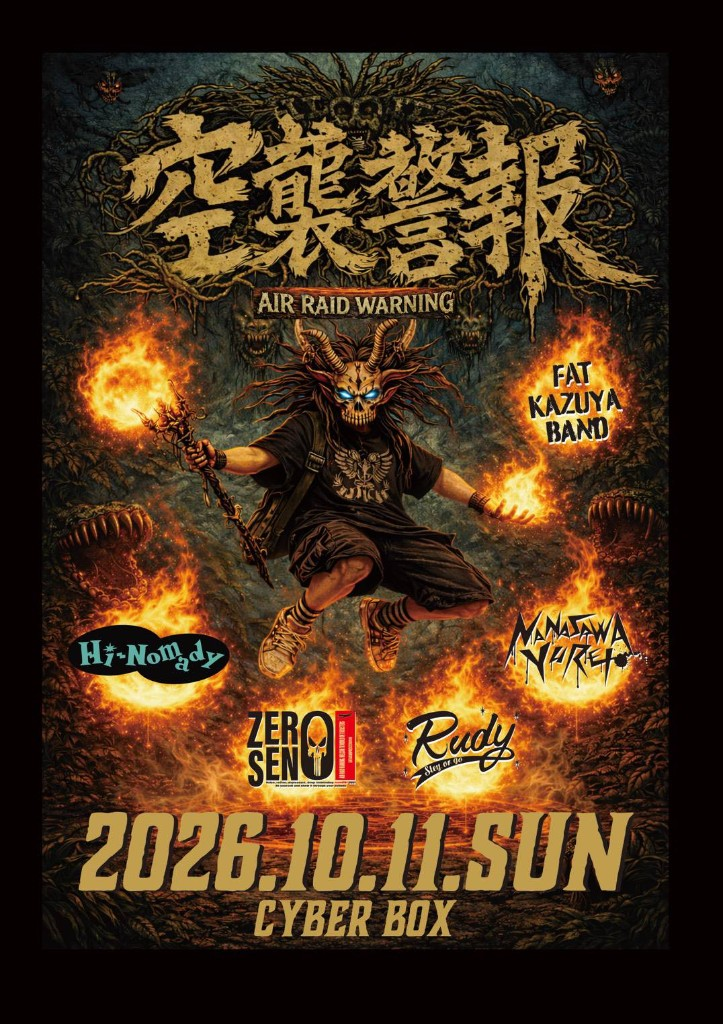
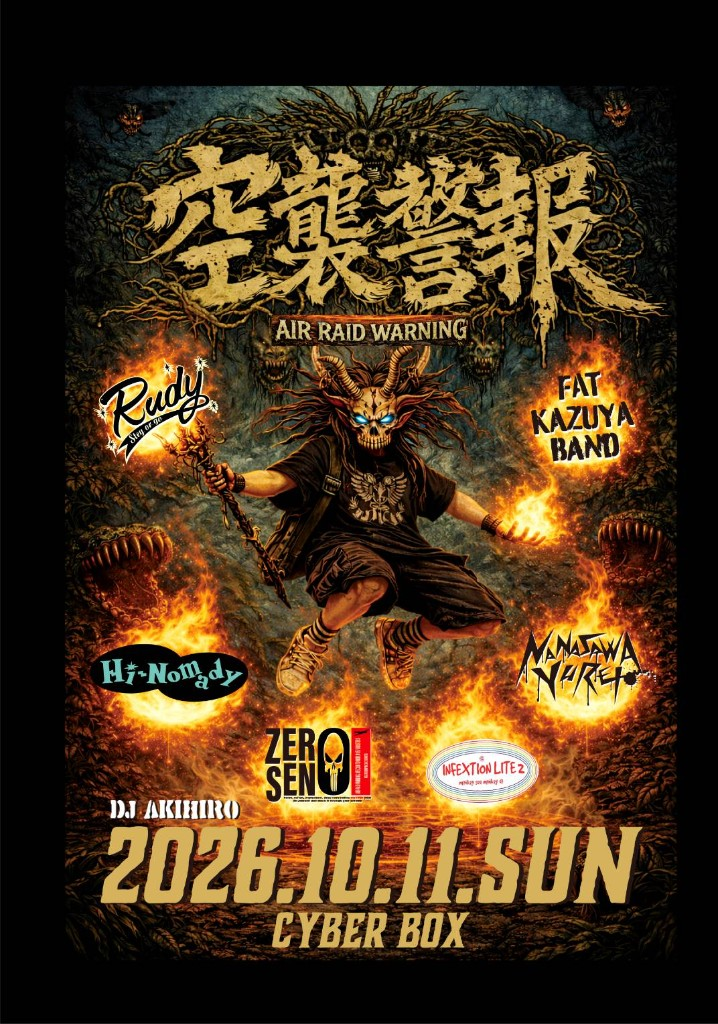
update live

diff --git a/app/api/live-schedules/data.ts b/app/api/live-schedules/data.ts
@@ -808,10 +808,25 @@ DOOR:	未定
     image: '/images/2026-06-26.png',
   },
   {
-    title: 'Sick Live DUB & PSYCHOBILLY',
-    description: `詳細未定
+    title: 'DUB & PSYCHOS',
+    description: `
+      2026.7.5 sun
+      Club HEAVY SICK
+      OPEN & START 17:00
+      ADV ¥2,800 + 1drink / DOOR ¥3,200 + 1drink
+
+      DJ
+      Electric Spider
+      SHIRROW（ROCKERS NITE）
+
+      OJOROJO
+      Hi-NOMADY
+      SUPER CLASS
+      天狗ロッカーズ
+      TOTAL PONKOTSU SYSTEM
     `,
     date: '2026-07-05',
+    image: '/images/2026-07-05.png',
   },
   {
     title: 'La Place Secrete Live & DJ @藤枝',
@@ -851,7 +866,7 @@ DOOR:	未定
       LIVE SHOW
       SPIKE
       CHICKEN JUMP SKIPS
-      HI-HOUNDS
+      HI-NOMADY
 
       GUEST DEE-JAY
       SHIGERU（SLAP OF CEMETERY）
@@ -880,11 +895,14 @@ DOOR:	未定
       2026.10.11 sun
       CYBER BOX
 
+      Rudy
       FAT KAZUYA BAND
       Hi-Nomady
-      ZEROSEN
-      Rudy
-      MONAWA NARES
+      NANASAWA NAREI
+      ZERO SEN
+      INFEXTION LITE 2
+
+      DJ AKIHIRO
     `,
     date: '2026-10-11',
     image: '/images/2026-10-11.png',